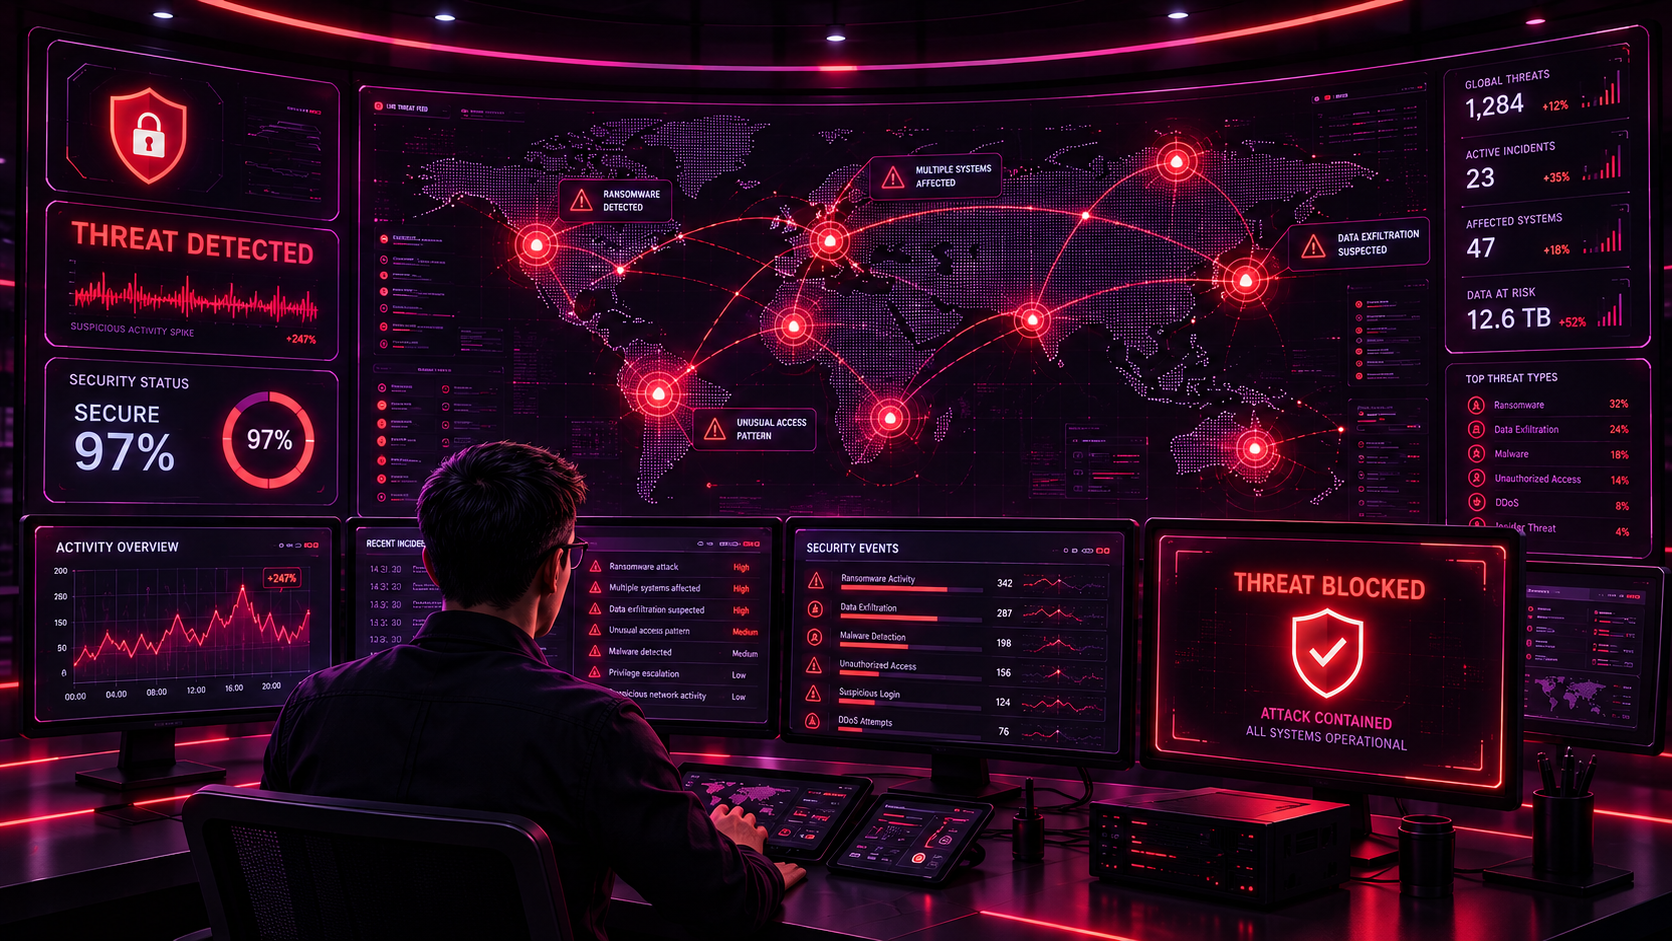
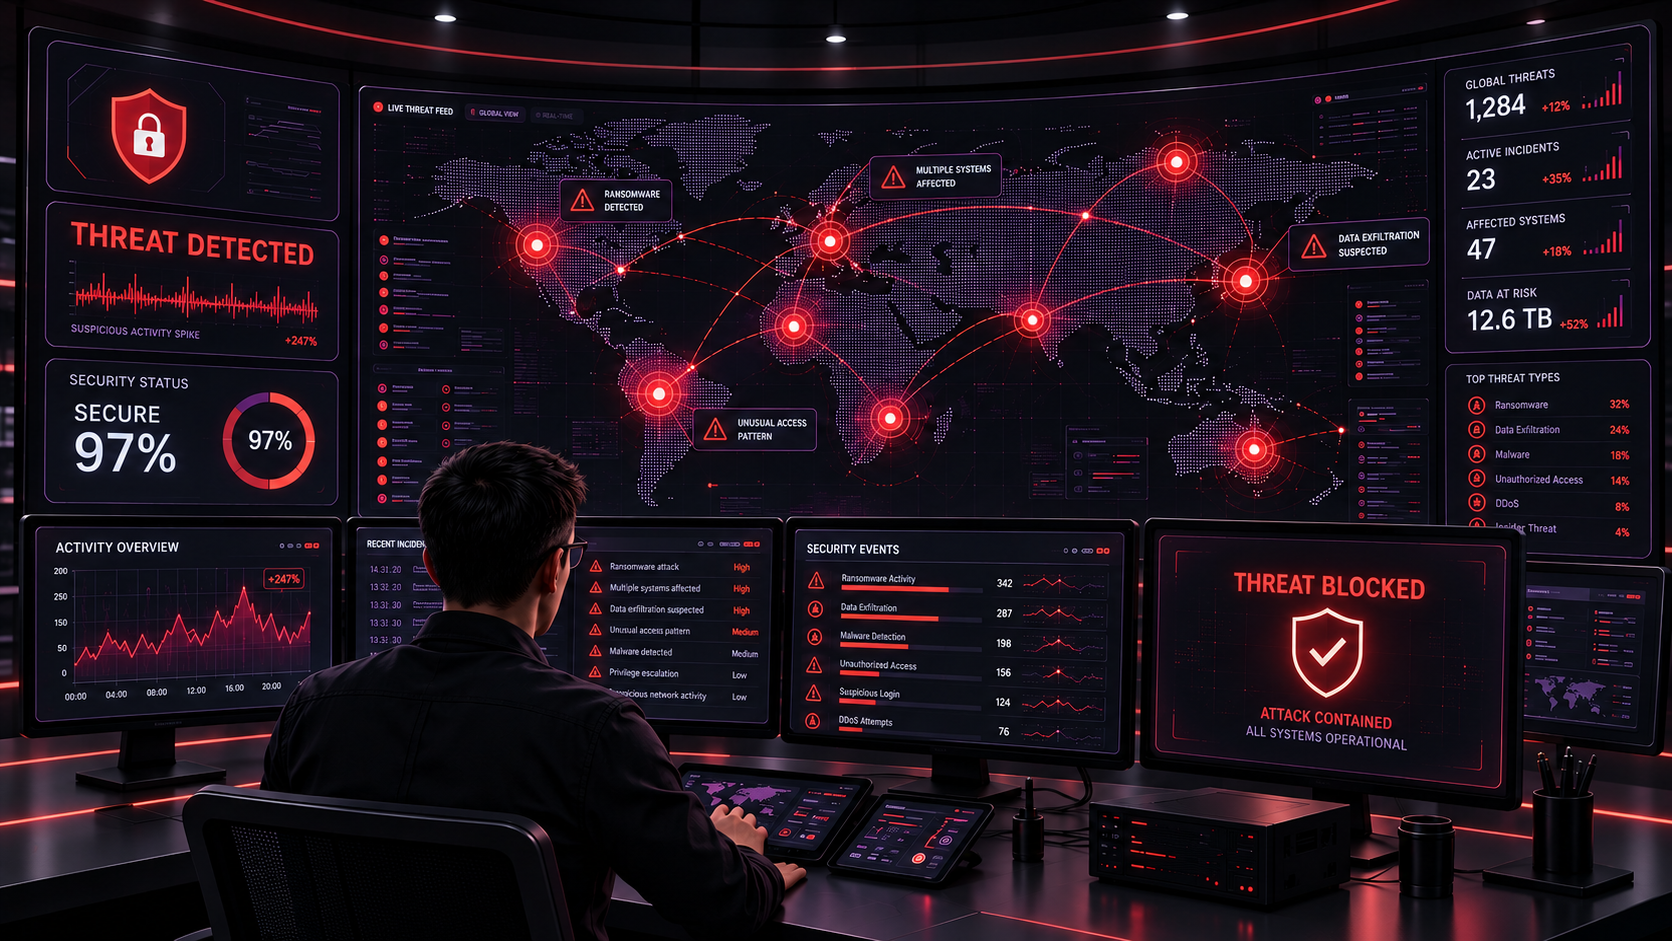
fix: normalize home hero visual consistency

diff --git a/src/app/globals.css b/src/app/globals.css
@@ -377,7 +377,11 @@ html:not(.dark) .brand-logo {
 }
 
 .home-hero-artwork {
+  height: 100%;
   width: clamp(54rem, 66vw, 72rem);
+  max-height: 45rem;
+  overflow: hidden;
+  contain: layout paint;
   transform: translateX(clamp(3.5rem, 5vw, 7rem));
 }
 
@@ -404,7 +408,17 @@ html:not(.dark) .brand-logo {
 }
 
 .hero-visual {
+  --hero-scale-start: 1;
+  --hero-scale-end: 1.018;
   animation: hero-float 10s ease-in-out infinite alternate;
+}
+
+.home-hero-visual {
+  height: 100%;
+  width: 100%;
+  max-width: none;
+  object-position: 58% center;
+  transform-origin: 58% center;
 }
 
 .solution-card-image {
@@ -705,8 +719,8 @@ html:not(.dark) .brand-logo {
 }
 
 @keyframes hero-float {
-  from { transform: scale(1) translate3d(0, 0, 0); }
-  to { transform: scale(1.018) translate3d(1%, -0.8%, 0); }
+  from { transform: scale(var(--hero-scale-start)) translate3d(0, 0, 0); }
+  to { transform: scale(var(--hero-scale-end)) translate3d(1%, -0.8%, 0); }
 }
 
 .dark body {
@@ -868,7 +882,7 @@ html:not(.dark) .hero-ambient {
 
   .home-hero-artwork {
     inset-block: 0 auto;
-    height: 58%;
+    height: min(32rem, 58vh);
     width: 126vw;
     transform: translateX(28vw);
   }

diff --git a/src/app/page.tsx b/src/app/page.tsx
@@ -393,7 +393,7 @@ export default function Home() {
             fill
             priority
             sizes="(max-width: 640px) 115vw, (max-width: 1024px) 86vw, 68vw"
-            className="hero-visual object-cover object-[58%_center] opacity-90 dark:hidden"
+            className="hero-visual home-hero-visual object-cover opacity-90 dark:hidden"
           />
           <Image
             src={publicAsset("/images/cyber-shield-hero.png")}
@@ -401,7 +401,7 @@ export default function Home() {
             fill
             priority
             sizes="(max-width: 640px) 115vw, (max-width: 1024px) 86vw, 68vw"
-            className="hero-visual hidden object-cover object-[58%_center] opacity-90 dark:block"
+            className="hero-visual home-hero-visual hidden object-cover opacity-90 dark:block"
           />
         </div>
         <div className="hero-vignette absolute inset-0" />
